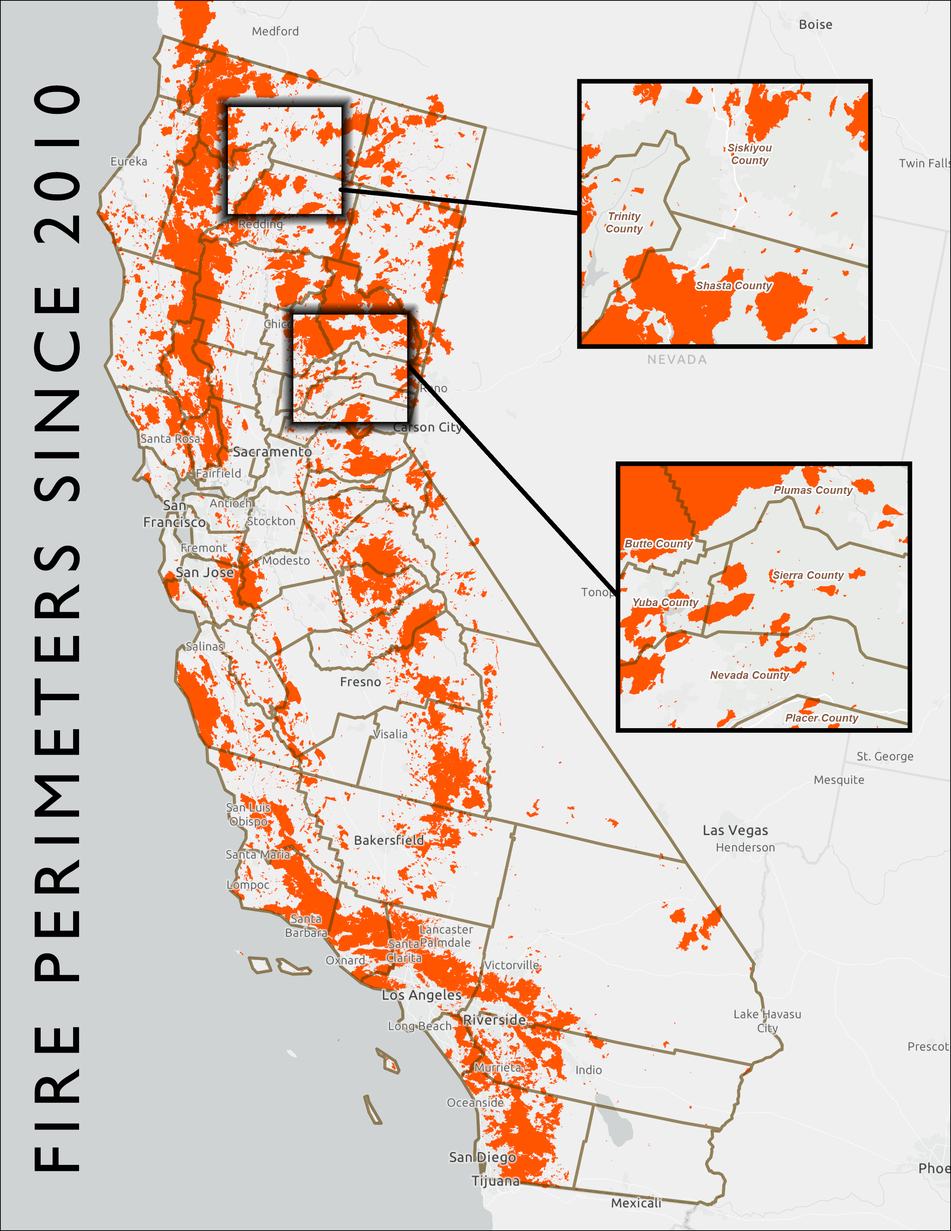
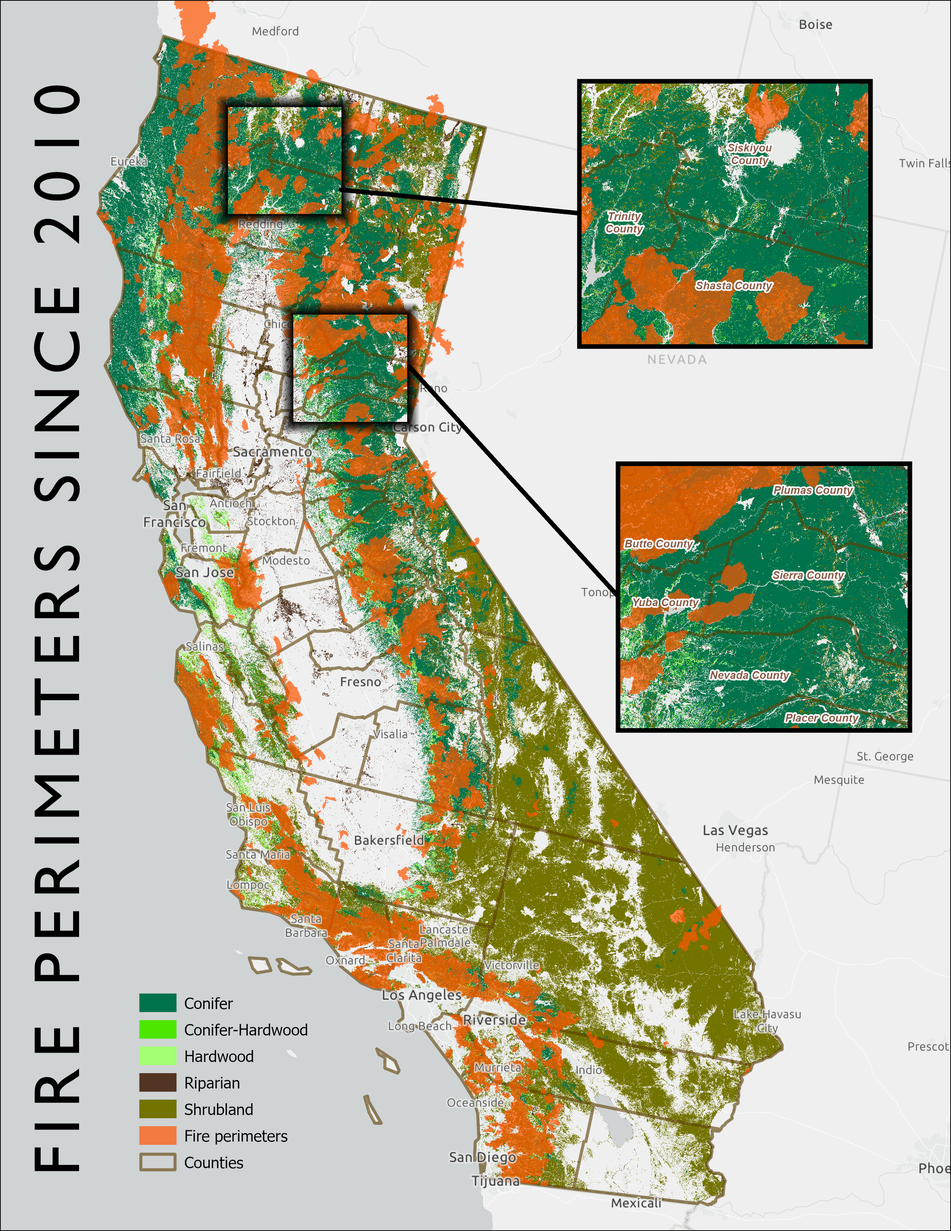
first draft writing

diff --git a/predict.md b/predict.md
@@ -14,7 +14,7 @@
 # license: CC-BY-4.0
 # keywords: forest health, climate, wildfire
 abstract: |
-   Predicting wildfires is next to impossible. 
+   Predicting where wildfires might occur is next to impossible due to multiple factors of weather, biotic, and abiotic conditions on the ground. We're going to do it anyway or at least examine what places might be vulnerable during 2026. We'll examine fire history and the chance of severe fires through fire perimeters since 2010 and the probability of crown fire. Surprisingly there are some places in the Sierra-Cascade region of California that may be more vulnerable than others.
 exports: 
   - format: docx
     template: curvenote
@@ -31,24 +31,31 @@ exports:
 # Background
 > "Wildfire season is fast approaching, and with low snowpack, dry conditions, and soaring temperatures across the U.S., experts are warning that 2026 may be one of the worst on record. Combine those extreme conditions with massive restructuring at the U.S. Forest Service (USFS), and the result is a powder keg for federal wildland firefighters." @clarke
 
+The 2026 wildfire season is shaping up to be one of the most severe in recent U.S. history, driven by a convergence of extreme climatic and institutional factors. A record-low snowpack across the West — California's measuring just 14–18% of average — combined with early-season heat and drought across 61% of the continental U.S. has created abundant, desiccated fuels primed to burn [@becker2026; @spanger]. Already through April, over 1.8 million acres have burned (194% above the 10-year average), and AccuWeather projects 5.5 to 8 million acres could burn by year's end [@clarke; @lada2026]. 
+
+Compounding the environmental conditions, the U.S. Forest Service lost 16% of its workforce in 2025 and is undergoing a major restructuring that critics warn erodes firefighting support capacity [@simlot2026; @clarke]. Meanwhile, the newly formed U.S. Wildland Fire Service is racing to bring on aircraft and crews early, though experts caution that the administration's focus on suppression over prevention may leave the country underprepared [@larson2026]. Together, these factors point to a "fire year" rather than a seasonal threat, demanding urgent policy and operational responses [@kpbs2026].
+
+But then again every year seems to get a dire wildfire prediction. Is this media hype, climate reality, or does the data help sort out science from fiction? Let's take a closer look.
+
 # Predictive mapping
-{numref}`perimeters` shows all wildfires since 2010.
+Generally, examining wildfire probability or history datasets of California, it can be hard to decipher the dominant oranges or reds from anything else. {numref}`perimeters` shows all wildfires greater than 5,000 acres (2,023 hectares) since 2010 [@frap]. Again, the map mostly looks orange, but if we zoom into key areas where forest occur, there are some spot where there haven't been large fires since 2010 such as northwestern Shasta County or Nevada and Sierra Counties.
 
 :::{figure} perims.png
 :label: perimeters
 :height: 650
-Fire perimeters since 2010 showing insets for Shasta County (above) and Sierra/Nevada Counties (below) where fewer large wildfires have occurred.
+Fire perimeters >5,000 acres since 2010 showing insets for Shasta County (above) and Sierra/Nevada Counties (below) where fewer large wildfires have occurred [@frap; @evt].
 :::
 
-Maybe also add large fires >2500 acres (just over 1000 ha) or replace this one with that?
 
-{numref}`probability` shows the mean crown fire probability REFERENCE AND CITE PYROLOGIX.
+We then looked at the probability of fires occurring in these areas. {numref}`probability` shows the mean crown fire probability [@pyrologix]. The values represent the likelihood of experiencing group torching (mid- to high-grade passive crown fire) or sustained canopy spread or active crown fire if a wildfire occurs. The data was joined to transverse hexagons 4,000 hectares (9,884 acres) in size and calculating the mean probability within each hexagon.
 
 :::{figure} prob.png
 :label: probability
 :height: 650
-Mean crown fire probability showing inset closeups in the Shasta and Sierra/Nevada County areas where high concentrations of wildfire probablity exist.
+Mean crown fire probability showing inset closeups in the Shasta and Sierra/Nevada County areas where high concentrations of wildfire probablity exist [@pyrologix].
 :::
+
+Although there are areas of high probability for severe wildfire scattered throughout California, the two areas that lit up were in the Shasta and Sierra/Nevada County regions where multiple polygons of high probability conncted. This doesn't mean that wildfires will take place in these areas, but it does mean the likelihood is higher. In the Nevada County area, there have been concerted efforts to thin forest and create fuel breaks throughout the County. However, there are pockets, particularly in private land holdings where thinning has not taken place and many houses in the wildland urban interface have not created defensible space nor cleared pine leaves from roofs and yards.
 
 # Biodiversity & Old-growth
 
@@ -59,34 +66,11 @@ California’s forests exist largely within a Mediterranean climate, characteriz
 
 These misconceptions shape how wildfire risk is interpreted and how solutions are evaluated. Simplified narratives, such as the claim that destructive fires are primarily a shrubland phenomenon, further obscure the reality that California’s most damaging fires occur across mixed landscapes that include forests, shrublands, and the wildland–urban interface. When wildfire ecology is misunderstood in this way, forest management and biomass utilization are often framed as unnecessary or harmful rather than as responses to a misaligned, historically altered system. 
 
-Wildfire disinformation matters not only because it is inaccurate and undermines accepted science, but because it drives policy choices that fail to address the underlying causes of high-severity fire in a fire-adapted landscape [@cook]. 
-
-## Fire-adapted forests & cultural fire
-A growing body of ecological research, supported by historical records and Indigenous knowledge, makes clear that most of California’s landscapes burned regularly prior to Euro-American settlement. From the coast to the Sierra Nevada and beyond, fire occurred on highly variable but frequent cycles, often on the order of five to fifteen years, depending on vegetation type, elevation, and local climate. Fire was not an anomaly in these systems; it was essential to their function. 
-
-Indigenous peoples actively shaped these fire regimes through intentional burning, now commonly referred to as cultural burning. These practices did not simply mimic lightning ignitions but actively guided fire to support food systems, medicinal plants, wildlife habitat, travel corridors, and sacred landscapes. Cultural burning worked in concert with natural fire to sustain open, patchy forests, interspersed meadows, and diverse age structures, supporting high levels of biodiversity and resilience. 
-
-Decades of fire science align closely with this knowledge. Prior to widespread fire suppression, western forests tended to have larger trees, lower overall density, and greater structural heterogeneity [@north220; @stephens]. The removal of frequent, low- to moderate-severity fire disrupted these systems, allowing fuels to accumulate and forest structure to shift far beyond historical and ecological norms. 
-
-## Fire suppression
-The transition from frequent, smaller fires to the large, high-severity wildfires of today is not a natural evolution but the result of more than a century of fire suppression [@collins; @peery]. Historically, regular fire functioned as an active form of landscape management. It improved tree health by reducing competition, clearing understory fuels, removing dead or weakened vegetation, and opening the forest canopy to sunlight. These processes reduced water stress, improved nutrient cycling, and supported the development of meadows and open patches that acted as natural fire breaks. 
-
-Frequent fire also interacts with hydrology. By reducing excessive tree density, fire helped balance water demand with available moisture, supporting smaller, localized water cycles and maintaining soil and vegetation health. In these landscapes, most fires burned at lower intensity and often self-extinguished as they encountered patchy fuels and open areas. Large, stand-replacing fires were relatively rare. 
-
-Fire suppression reversed these dynamics. Forests became denser and more uniform, fuels accumulated continuously across large areas, and the patchiness that once limited fire spread was lost. Under modern climate conditions, this produced fires that burn hotter, spread farther, and cause far greater ecological and social damage than the frequent fires they replaced. 
-
-Restoring fire-adapted landscapes, therefore, requires reintroducing fire as a management tool, alongside thinning and other treatments that help re-establish appropriate structure. In the near term, this process generates large volumes of forest residuals. Biomass utilization does not drive this work; rather, it emerges from it as a practical necessity. Over time, as landscapes regain balance and fire resumes its ecological role, the need for intensive intervention and large-scale biomass handling can and should decline. 
-
-
 # Solutions
 Returning to the mantra burn, bury, build, we recommend that all biomass utilization solutions incorporate the highest and best uses of forest product pathways. Moving forward, several integrated pathways can support forest health and biomass utilization:
 
-1. **Climate adaptation and biomass integration**. Rapid scaling of forest health treatments, including thinning and prescribed fire, is critical to maintaining forest resilience in a warming climate [@delyser]. Policies that align forest treatments, biomass utilization, climate goals, and greenhouse gas reduction can reduce wildfire risk while ensuring that utilization infrastructure supports, rather than distorts, restoration outcomes. 
-
-
+1. **Treat more forested acres**. Through thinning and prescribed projects. California has been ramping up acres treated for some time now, but the pace and scale still needs to be accelerated. An element that is currently missing is infrastructure to treat biomass responsibly and sustainably.
+2. **Climate adaptation and biomass integration**. Rapid scaling of forest health treatments, including thinning and prescribed fire, is critical to maintaining forest resilience in a warming climate [@delyser]. Policies that align forest treatments, biomass utilization, climate goals, and greenhouse gas reduction can reduce wildfire risk while ensuring that utilization infrastructure supports, rather than distorts, restoration outcomes [@biomass]. 
+3. **Biomass aggregation**. A major hurdle for treating more forest acres is long-term feedstock supply agreements. Creating joint powers authoritiies to manage agreements between public landowners and wood product businesses, could greatly increase forest acres treated, but also utilize the wood in a manner that sequesters carbon and increases biodiversity [@jpa].
 
 # Conclusion 
-Taken together, these pathways point toward a future in which California’s forests are once again shaped by frequent, beneficial fire rather than catastrophic megafires. Biomass utilization plays a supporting role in this transition, helping to manage the legacy of fire suppression while landscapes are brought back into balance. The long-term goal is not perpetual intervention, but the restoration of living systems capable of sustaining themselves through wise, adaptive stewardship. 
-
-
-
